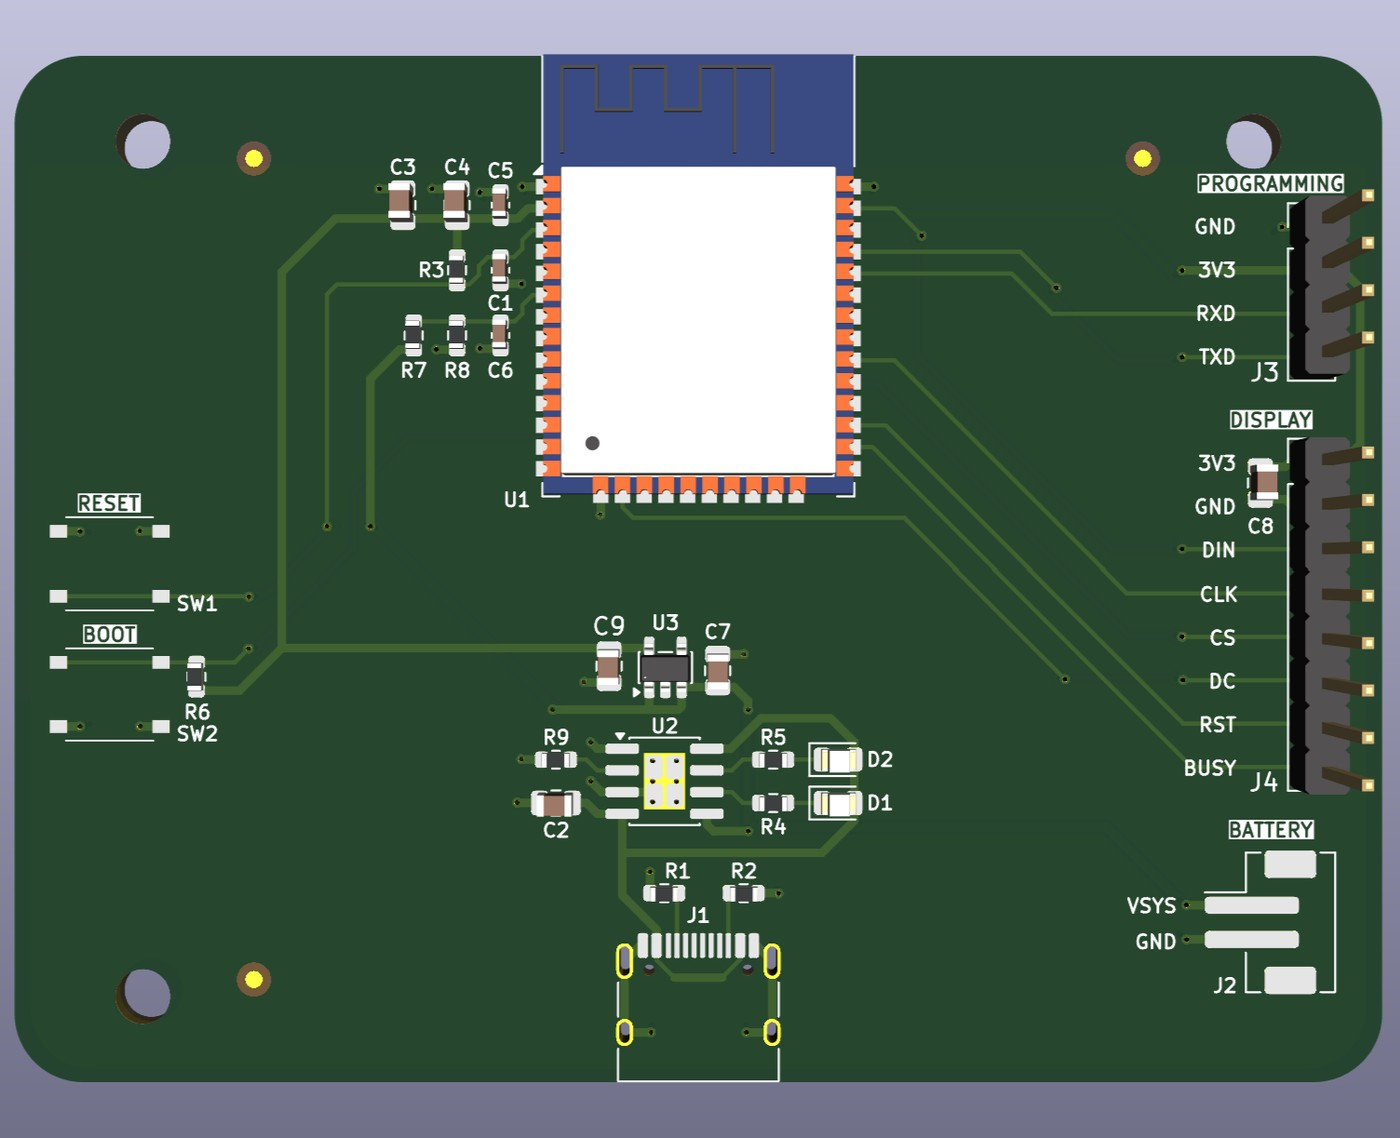
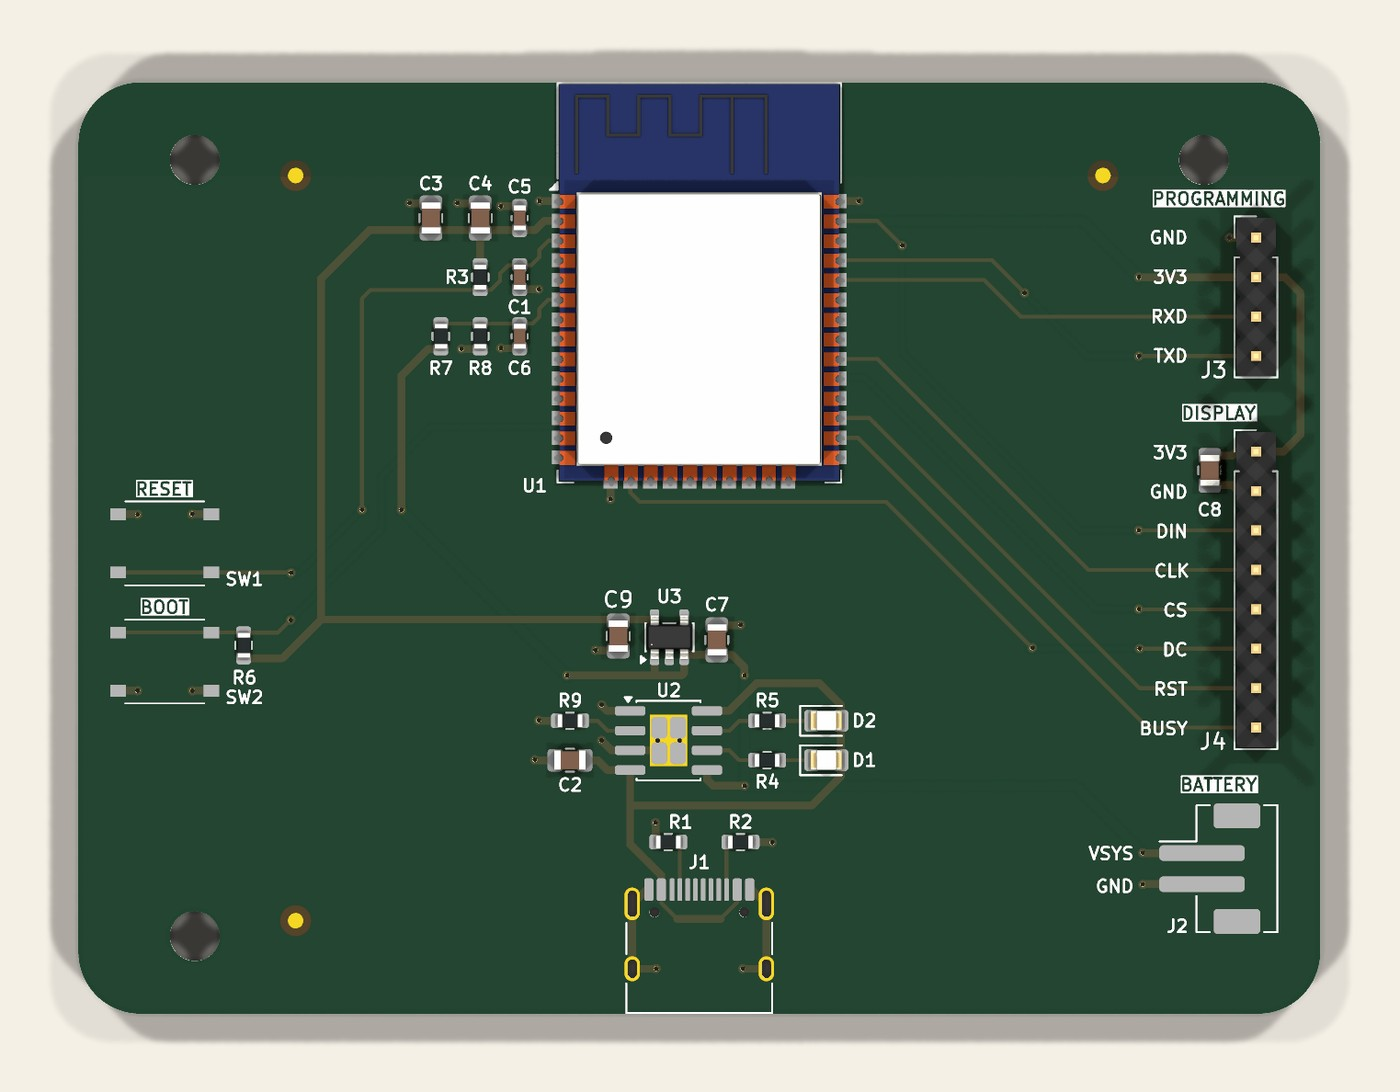
Add LTspice results, update RNG status, composite render onto cream
Reconciling the site against the current resume. The resume moved ahead
this time, so the site was the stale side.

Buck converter:
- Renamed to "Asynchronous Buck Converter" to match the resume, and the
  Overview now explains what asynchronous means here: a Schottky catch
  diode carries the freewheel current instead of a second switching FET.
- New Simulation section built from the LTspice run in
  LTSPICE/buck_12v_5v_3a. Verified against the log rather than the
  resume: 91.3% efficiency (16.64 W in, 15.19 W out), catch diode at
  0.90 W of 1.45 W total loss, inductor 0.46 W, 31 mV output ripple on a
  5.03 V rail, and inductor current bottoming at 2.71 A so conduction
  stays continuous at full load. That last figure is direct evidence for
  the continuous conduction claim the page already made.
- The page had said efficiency was "closer to 80%" and that every figure
  was a design value rather than a measurement. Both are now wrong and
  are corrected.

RNG: the page said electrical bring-up was still to come. The board has
since been powered up and all ten counter outputs verified, so the Build
Status section now says so.

Weather station render composited onto the page background instead of
KiCad's lavender gradient. Re-rendered from the board file with
kicad-cli at a transparent background rather than masking the existing
export, which avoids halos around the silkscreen text.

diff --git a/projects/buck-converter.html b/projects/buck-converter.html
@@ -3,18 +3,18 @@
 <head>
   <meta charset="UTF-8" />
   <meta name="viewport" content="width=device-width, initial-scale=1.0" />
-  <title>Ethan Greenhouse - 12 V to 5 V Buck Converter PCB</title>
-  <meta name="description" content="A 78 x 16 mm switching regulator board built around a 150 kHz LM2596S-5, converting a 12 V barrel jack to a 5 V USB-A output at a 3 A load target." />
+  <title>Ethan Greenhouse - Asynchronous Buck Converter</title>
+  <meta name="description" content="A 78 x 16 mm asynchronous buck converter, 12 V to 5 V at 3 A and 150 kHz, simulated in LTspice at 91.3% efficiency with the catch diode as the dominant loss." />
   <link rel="canonical" href="https://ethangreenhouse.com/projects/buck-converter.html" />
 
   <meta property="og:type" content="website" />
   <meta property="og:url" content="https://ethangreenhouse.com/projects/buck-converter.html" />
-  <meta property="og:title" content="12 V to 5 V Buck Converter PCB - Ethan Greenhouse" />
+  <meta property="og:title" content="Asynchronous Buck Converter - Ethan Greenhouse" />
   <meta property="og:description" content="A 78 x 16 mm switching regulator board built around a 150 kHz LM2596S-5, converting a 12 V barrel jack to a 5 V USB-A output at a 3 A load target." />
   <meta property="og:image" content="https://ethangreenhouse.com/images/og-image.png" />
 
   <meta name="twitter:card" content="summary_large_image" />
-  <meta name="twitter:title" content="12 V to 5 V Buck Converter PCB - Ethan Greenhouse" />
+  <meta name="twitter:title" content="Asynchronous Buck Converter - Ethan Greenhouse" />
   <meta name="twitter:description" content="A 78 x 16 mm switching regulator board built around a 150 kHz LM2596S-5, converting a 12 V barrel jack to a 5 V USB-A output at a 3 A load target." />
   <meta name="twitter:image" content="https://ethangreenhouse.com/images/og-image.png" />
 
@@ -38,10 +38,11 @@
     <a href="../index.html#projects" class="back-link">← Back to Projects</a>
 
     <header class="project-header">
-      <h1>12 V to 5 V Buck Converter PCB</h1>
+      <h1>Asynchronous Buck Converter</h1>
       <p class="project-date">February 2026</p>
       <ul class="tags">
         <li>KiCad</li>
+        <li>LTspice</li>
         <li>Power Electronics</li>
         <li>PCB Design</li>
       </ul>
@@ -57,7 +58,9 @@
       </p>
       <p>
         The regulator is an LM2596S-5, a fixed 5 V step-down in TO-263 switching at 150 kHz and rated
-        for 3 A.
+        for 3 A. It is an asynchronous design, meaning a Schottky catch diode carries the freewheel
+        current rather than a second switching FET. That costs efficiency but removes the need for a
+        gate driver and a bootstrap supply.
       </p>
     </section>
 
@@ -66,8 +69,8 @@
       <p>
         A linear regulator doing 12 V to 5 V at 3 A dissipates (12 - 5) × 3 = 21 W in the package.
         That is not coolable on a board this size and caps efficiency near 42%. A buck converter
-        stores that energy in an inductor and delivers it to the load instead, running closer to 80%
-        efficient.
+        stores that energy in an inductor and delivers it to the load instead. Simulation puts this
+        design at 91.3%.
       </p>
       <p>
         The tradeoff is that a switcher is a layout problem as much as a schematic problem. Every
@@ -106,10 +109,33 @@
     </section>
 
     <section class="project-section">
+      <h2>Simulation</h2>
+      <p>
+        I modelled the converter in LTspice as an open-loop, fixed-duty stage: an ideal high side
+        switch, the SS54 as the freewheel diode, and the real parasitics that matter, 50 mΩ of
+        inductor series resistance and 50 mΩ of output capacitor ESR. Measurements are averaged over
+        the last millisecond of a 5 ms transient, once the output has settled.
+      </p>
+      <ul>
+        <li><strong>91.3% efficiency</strong> at the full 3 A load. 16.64 W in, 15.19 W out.</li>
+        <li><strong>The catch diode is 62% of the total loss</strong>, 0.90 W of 1.45 W. That is the price of an asynchronous design, and it is the first thing a synchronous FET would recover.</li>
+        <li><strong>Inductor loss is 0.46 W</strong>, another 32%, which leaves only about 6% in the switch and capacitor ESR combined.</li>
+        <li><strong>Inductor current never reaches zero.</strong> Ripple is 0.63 A peak to peak with a minimum of 2.71 A, so conduction stays continuous at full load, which is what the 33 µH was sized for.</li>
+        <li><strong>Output ripple is 31 mV</strong> on a 5.03 V rail.</li>
+      </ul>
+      <p>
+        The loss breakdown is the useful part. Knowing the diode dominates tells you where a Rev B
+        would go, and it is a better answer than assuming the regulator itself is the problem.
+      </p>
+    </section>
+
+    <section class="project-section">
       <h2>Status</h2>
       <p>
-        The schematic and layout are complete in KiCad. The board has not been fabricated or brought
-        up, so every figure on this page is a design value rather than a measurement. 
+        The schematic and layout are complete in KiCad and the design is simulated. The board has not
+        been fabricated, so the figures above are simulated rather than measured. Once built, the
+        things worth putting on a scope are the switch node waveform, output ripple at full load, and
+        efficiency across the load range against the 91.3% the model predicts.
       </p>
     </section>
 

diff --git a/index.html b/index.html
@@ -152,20 +152,20 @@ Board   80 x 60 mm, 2-layer</pre>
 
       <a href="projects/buck-converter.html" class="card">
         <div class="card-thumb card-thumb-code">
-<pre><span class="cc">// 12 V in, 5 V out, 3 A target</span>
-LM2596S-5      150 kHz switcher
+<pre><span class="cc">// 12 V in, 5 V out, 3 A, 150 kHz</span>
+LM2596S-5      SS54 freewheel
 
-L1    33 uH    D1    SS54 40V 5A
-C_IN  680 uF   C_OUT 220 uF
-Board 78 x 16 mm, 2-layer</pre>
+Efficiency  91.3%  (LTspice)
+Diode loss  0.90 W of 1.45 W
+Ripple      31 mV, CCM held</pre>
         </div>
         <div class="card-body">
-          <h3>12 V to 5 V Buck Converter PCB</h3>
-          <p>Switching regulator taking a 12 V barrel jack to 5 V USB-A at 3 A, sized around a 150 kHz LM2596S-5 to hold continuous conduction at full load.</p>
+          <h3>Asynchronous Buck Converter</h3>
+          <p>Switching regulator taking a 12 V barrel jack to 5 V USB-A at 3 A. Simulated in LTspice at 91.3% efficiency, with the catch diode as 62% of total loss.</p>
           <ul class="tags">
             <li>KiCad</li>
+            <li>LTspice</li>
             <li>Power Electronics</li>
-            <li>PCB Design</li>
           </ul>
         </div>
       </a>

diff --git a/projects/rng-pcb.html b/projects/rng-pcb.html
@@ -124,10 +124,9 @@
         built rather than only designed.
       </p>
       <p>
-        Electrical bring-up is still to come. The first checks are the 555 oscillation frequency
-        against the calculated value, whether the 4017 advances cleanly on every edge without double
-        clocking, and whether the clock enable genuinely holds the counter rather than letting it
-        drift.
+        It worked on first power-up. All ten counter outputs stepped in sequence with one LED lit at
+        a time, and the clock enable held the count on release rather than letting it drift. No
+        rework, no cut traces.
       </p>
     </section>
 
